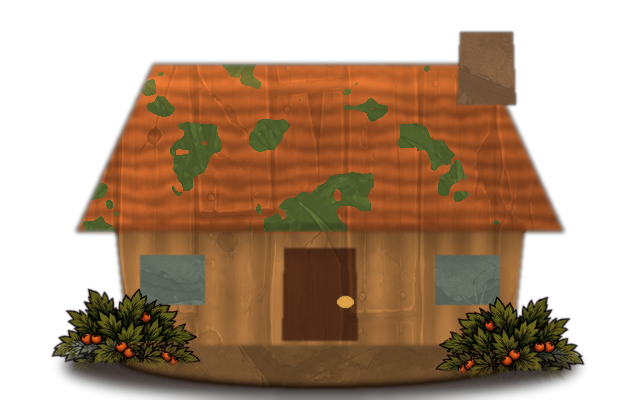
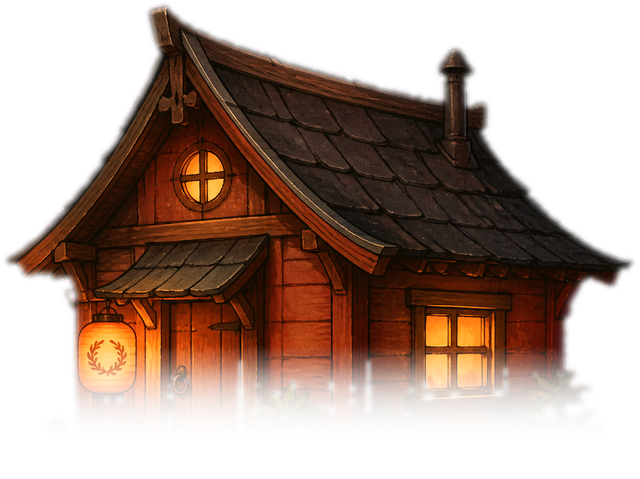
Sit the cover buildings in the valley under one dusk.
Play roofs are the cover cabin and inn, not painted red cottages.
Same west light as the cover. No new style sheet.

diff --git a/godot/project.test.ts b/godot/project.test.ts
@@ -61,7 +61,7 @@ test("Valley look is one dusk illustration, not DST stickers", () => {
   assert.doesNotMatch(look, /func slip_box\(\)[\s\S]{0,400}tex-plaque/);
   assert.ok(existsSync("godot/assets/art/tex-slip.png"));
   const paintSlip = readFileSync("tools/paint_hud_slip.py", "utf8");
-  assert.match(paintSlip, /tex-wood/);
+  assert.match(paintSlip, /prop-cabin/);
   assert.match(paintSlip, /tex-paper/);
   assert.match(paintSlip, /tex-slip/);
   assert.match(paintSlip, /HUD slip only/);
@@ -69,12 +69,15 @@ test("Valley look is one dusk illustration, not DST stickers", () => {
   assert.doesNotMatch(paintSlip, /floor-valley|cover-valley|ground-valley/);
   assert.doesNotMatch(paintSlip, /Wilson|Don't Starve|Dont Starve/i);
   assert.match(look, /set_shader_parameter\("grade", 0\.0\)/);
+  assert.match(look, /VALLEY_DUSK/);
+  assert.match(look, /1\.10, 0\.82, 0\.58/);
   assert.doesNotMatch(look, /SystemFont/);
   const play = readFileSync("godot/scripts/play.gd", "utf8");
   assert.match(play, /_clamp_cam/);
   assert.match(play, /_cam_locked/);
   assert.match(play, /%s×%s/);
   assert.match(play, /1\.0, 1\.0, 1\.0/);
+  assert.match(play, /VALLEY_DUSK/);
   assert.ok(existsSync("godot/fonts/multiply.ttf"));
   const actor = readFileSync("godot/scripts/actor_view.gd", "utf8");
   assert.match(actor, /CanvasLayer/);
@@ -88,6 +91,7 @@ test("Valley look is one dusk illustration, not DST stickers", () => {
   assert.match(lookShot, /set_moving/);
   assert.match(lookShot, /chip_button/);
   assert.match(lookShot, /slip_box/);
+  assert.match(lookShot, /VALLEY_DUSK/);
   const boot = readFileSync("godot/scripts/boot.gd", "utf8");
   assert.match(boot, /cover-valley/);
   assert.doesNotMatch(boot, /prop-cabin|prop-inn|Wanderer/);
@@ -97,6 +101,20 @@ test("Valley look is one dusk illustration, not DST stickers", () => {
   const valley = readFileSync("godot/scripts/valley_map.gd", "utf8");
   assert.match(valley, /ground-valley/);
   assert.match(valley, /prop-hut|prop-lodge/);
+  assert.match(valley, /4\.55, 4\.72, 176, 132/);
+  assert.match(valley, /16\.20, 3\.85, 220, 168/);
+  assert.doesNotMatch(valley, /prop-pine\.png/);
+  const unify = readFileSync("tools/unify_dusk.py", "utf8");
+  assert.match(unify, /prop-cabin/);
+  assert.match(unify, /prop-inn/);
+  assert.match(unify, /prop-hut/);
+  assert.match(unify, /prop-lodge/);
+  assert.match(unify, /Does not touch the cover/);
+  assert.doesNotMatch(unify, /cover-valley/);
+  assert.doesNotMatch(unify, /Wilson|Don't Starve|Dont Starve/i);
+  const sitMain = readFileSync("tools/paint_valley_sit.py", "utf8");
+  assert.match(sitMain, /Roofs are unify_dusk/);
+  assert.doesNotMatch(sitMain, /save\(paint_house\("hut"\)/);
   assert.match(valley, /floor-valley/);
   assert.match(valley, /_bend\(/);
   assert.match(valley, /_bend\(4\.2, "creek"\) - 0\.82/);

diff --git a/tools/unify_dusk.py b/tools/unify_dusk.py
@@ -1,0 +1,40 @@
+#!/usr/bin/env python3
+"""One dusk. Play roofs are the cover buildings. Does not touch the cover."""
+
+from __future__ import annotations
+
+import importlib.util
+from pathlib import Path
+
+from PIL import Image
+
+ROOT = Path(__file__).resolve().parents[1]
+ART = ROOT / "godot" / "assets" / "art"
+
+
+def _look() -> object:
+    spec = importlib.util.spec_from_file_location("paint_look", ROOT / "tools" / "paint_look.py")
+    mod = importlib.util.module_from_spec(spec)
+    spec.loader.exec_module(mod)
+    return mod
+
+
+def sit_cover_houses() -> None:
+    look = _look()
+    hut = look.soften_sit(Image.open(ART / "prop-cabin.png"), 0.24)
+    hut.save(ART / "prop-hut.png")
+    print("wrote prop-hut.png from cover cabin", hut.size)
+    lodge = look.soften_sit(look.scrub_inn(Image.open(ART / "prop-inn.png")), 0.22)
+    lodge.save(ART / "prop-lodge.png")
+    print("wrote prop-lodge.png from cover inn", lodge.size)
+    raw = (ART / "prop-lodge.png").read_bytes()
+    if b"Wanderer" in raw or b"WANDERER" in raw or b"Good Ale" in raw:
+        raise SystemExit("English inn sign still on the play lodge")
+
+
+def main() -> None:
+    sit_cover_houses()
+
+
+if __name__ == "__main__":
+    main()

diff --git a/tools/paint_hud_slip.py b/tools/paint_hud_slip.py
@@ -27,13 +27,13 @@ def _warm_wood(im: Image.Image, target: tuple[float, float, float]) -> Image.Ima
 
 
 def _wood_plank(size: tuple[int, int], horizontal: bool) -> Image.Image:
-    src = Image.open(ART / "tex-wood.png").convert("RGB")
-    # Lantern sits in the upper-left. Use a lower-right board.
-    crop = src.crop((448, 520, 448 + 280, 520 + 160))
+    # Same timber as the cover cabin, not a second UI wood.
+    src = Image.open(ART / "prop-cabin.png").convert("RGB")
+    crop = src.crop((40, 220, 40 + 280, 220 + 160))
     if horizontal:
         crop = crop.rotate(90, expand=True)
     plank = crop.resize(size, Image.Resampling.LANCZOS)
-    return _warm_wood(plank, (102.0, 70.0, 44.0))
+    return _warm_wood(plank, (96.0, 64.0, 40.0))
 
 
 def _paper_sheet(size: tuple[int, int]) -> Image.Image:

diff --git a/tools/paint_valley_sit.py b/tools/paint_valley_sit.py
@@ -379,12 +379,8 @@ def main() -> None:
     if "--land" in __import__("sys").argv:
         save(paint_floor(), "floor-valley.png")
         return
-    save(paint_house("hut"), "prop-hut.png")
-    save(paint_house("lodge"), "prop-lodge.png")
-    save(paint_verge(), "prop-verge.png")
-    if "--sit" in __import__("sys").argv:
-        for name in ("prop-stall.png", "prop-altar.png", "prop-board.png", "prop-anvil.png"):
-            plant_sit(name)
+    # Play roofs are the cover buildings. unify_dusk.py sits them. Do not paint red cottages.
+    print("paint_valley_sit: use --land for the floor. Roofs are unify_dusk.")
 
 
 if __name__ == "__main__":
